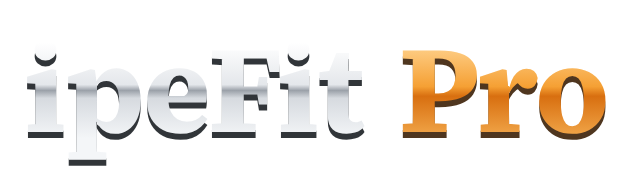
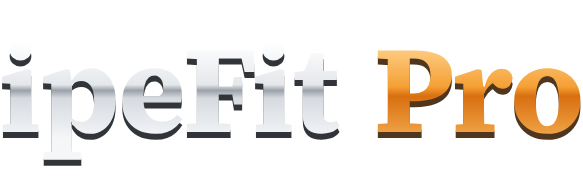
The P sits against ipeFit: the wordmark is trimmed to its ink and the tile stands two points from the i
The lettering PNGs carried six points of blank on the left and the layout
added four more, so the P stood fourteen points off the i while the other
letters sit three apart. The pictures are now cut to the ink with two pixels
either side, and the tile's margin is one named gap used by both the layout
and the fit arithmetic.

Claude-Session: https://claude.ai/code/session_01Vw5LbumMFGBTdmd1EaPH5V

diff --git a/src/components/AppHeader.tsx b/src/components/AppHeader.tsx
@@ -36,6 +36,8 @@ const WORDMARK = { dark: require('../../assets/wordmark-dark.png'), light: requi
 /** The lettering's height on the band; its width follows the picture. */
 const MARK_H = 44;
 const P = 40;
+/** Between the P's tile and the i: tight, so the two read as one word. */
+const GAP = 2;
 
 /** A picture's width at a height, from the asset's own size (a number on the phone, an object on the web). */
 function widthAt(src: unknown, height: number): number {
@@ -102,7 +104,7 @@ export function AppHeader({
   const mark = WORDMARK[t.mode === 'dark' ? 'dark' : 'light'];
   // The mark at its height, or smaller on a narrow screen, so it never runs under a control.
   const avail = w - 2 * PANEL - 12;
-  const full = P + 4 + widthAt(mark, MARK_H);
+  const full = P + GAP + widthAt(mark, MARK_H);
   const fit = Math.min(1, avail / full);
 
   const rivets: [number, number][] = [];
@@ -168,7 +170,7 @@ export function AppHeader({
         <View pointerEvents="none" style={{ position: 'absolute', left: PANEL, right: PANEL, top: 0, bottom: 0, alignItems: 'center', justifyContent: 'center', flexDirection: 'row' }}>
           {wordmark ? (
             <>
-              <Image source={ICON_P} style={{ width: P * fit, height: P * fit, borderRadius: 9 * fit, marginRight: 4 * fit }} accessibilityIgnoresInvertColors />
+              <Image source={ICON_P} style={{ width: P * fit, height: P * fit, borderRadius: 9 * fit, marginRight: GAP * fit }} accessibilityIgnoresInvertColors />
               <Image source={mark} style={{ width: widthAt(mark, MARK_H) * fit, height: MARK_H * fit }} resizeMode="contain" accessibilityIgnoresInvertColors />
             </>
           ) : (
